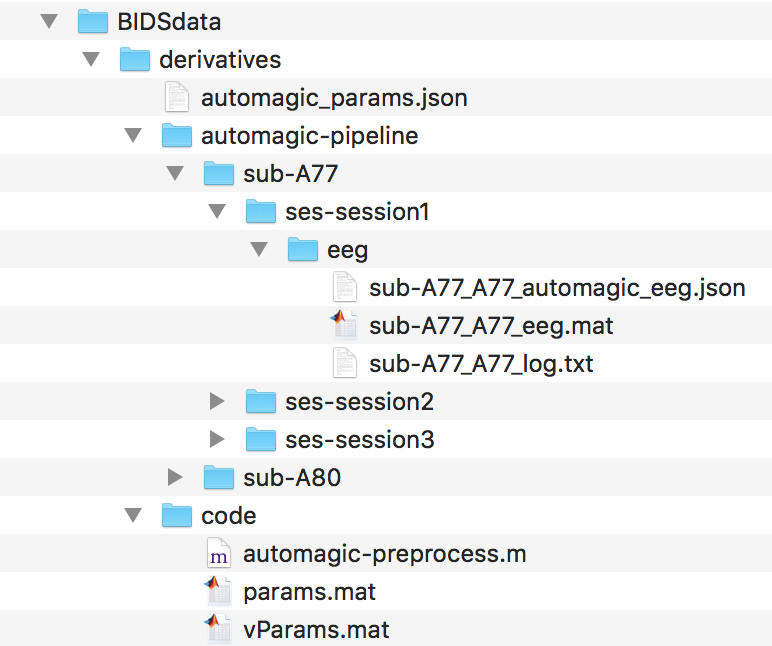
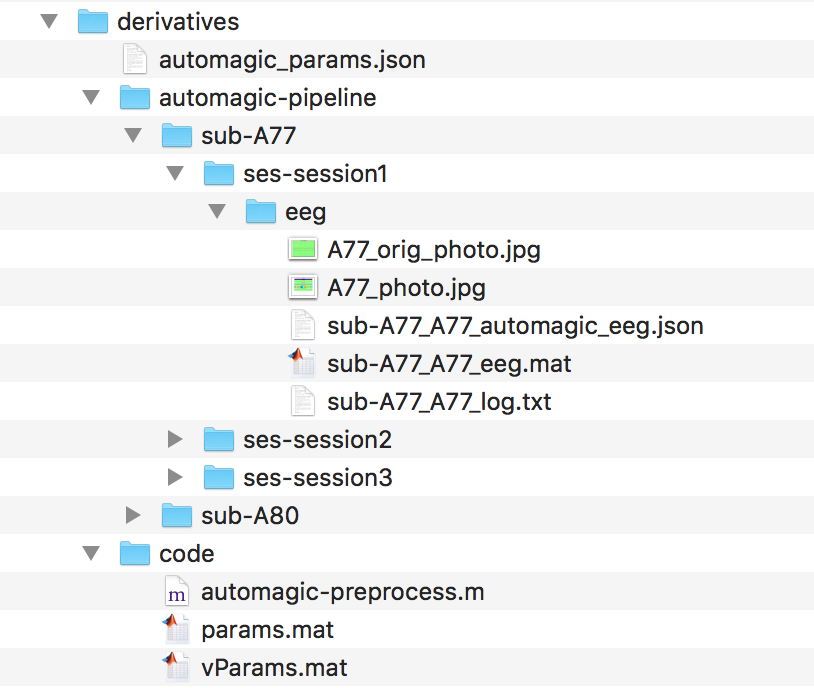
copy jpegs correctly to BIDS

Changed region(s): [[0.0933, 0.0, 0.9637, 0.9907], [0.1865, 0.6192, 0.2176, 0.6502]]

diff --git a/src/Project.m b/src/Project.m
@@ -988,7 +988,8 @@ classdef Project < handle
                      copyfile(logFile, newlogFile);
                     
                     % JPEG files
-                    images = dir([self.resultFolder block.subject.name relativeAddress{1} '*.jpg']);
+                    images = dir([block.subject.resultFolder slash block.fileName '_orig.jpg']);
+                    images = [images dir([block.subject.resultFolder slash block.fileName '.jpg'])];
                     for imIdx = 1:length(images)
                         image = images(imIdx);
                         imageAddress = [image.folder slash image.name];
